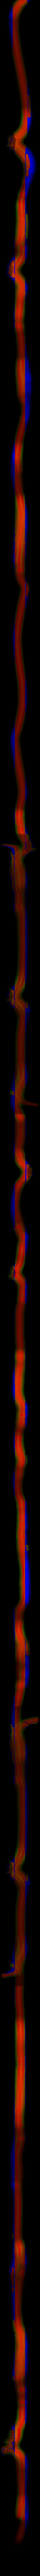
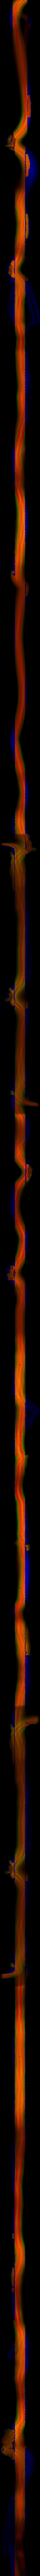
Raadi: the stage's wheel tracks are a worn line made from real runs (first iteration, 7 runs)
Claude-Session: https://claude.ai/code/session_01EaJQFaQzSdM4zVEzkSQBrK

Changed region(s): [[0.0625, 0.0, 1.0, 1.0], [0.6875, 0.7188, 0.7188, 0.75]]

diff --git a/src/race/raadi-line.js b/src/race/raadi-line.js
@@ -20,7 +20,7 @@ import { jobs } from '../jobs.js';
 
 const LIFT = 0.035;
 // the ground's colour is multiplied by these where a look is whole (over 1 lightens)
-const SWEPT = [0.74, 0.69, 0.63], LOOSE = [1.16, 1.14, 1.1], SOIL = [0.7, 0.52, 0.36];
+const SWEPT = [0.65, 0.59, 0.52], LOOSE = [1.24, 1.21, 1.15], SOIL = [0.66, 0.5, 0.36];
 const ln = (c) => c.map((v) => Math.log(v).toFixed(4)).join(', ');
 
 // a small tile of grain: R streaks along the way the cars go, G stones and crumbs

diff --git a/tools/race/raadi-lines.py b/tools/race/raadi-lines.py
@@ -295,9 +295,9 @@ def looks(W, g):
     top = float(np.percentile(on, 97)) if on.size else 1.0
     wn = W / top
     wide = blur(W, 0.75) / top
-    swept = g * (1 - np.exp(-1.7 * wn))
-    loose = g * np.clip(1.9 * wide - 1.5 * wn, 0, 1) * sstep(0.02, 0.12, wide)
-    soil = (1 - g) * (1 - np.exp(-2.6 * wn))
+    swept = g * (1 - np.exp(-2.2 * wn))
+    loose = g * np.clip(2.2 * wide - 1.6 * wn, 0, 1) * sstep(0.02, 0.12, wide)
+    soil = (1 - g) * np.clip(0.75 * wn, 0, 1) ** 0.8
     return swept, loose, soil, top
 
 
